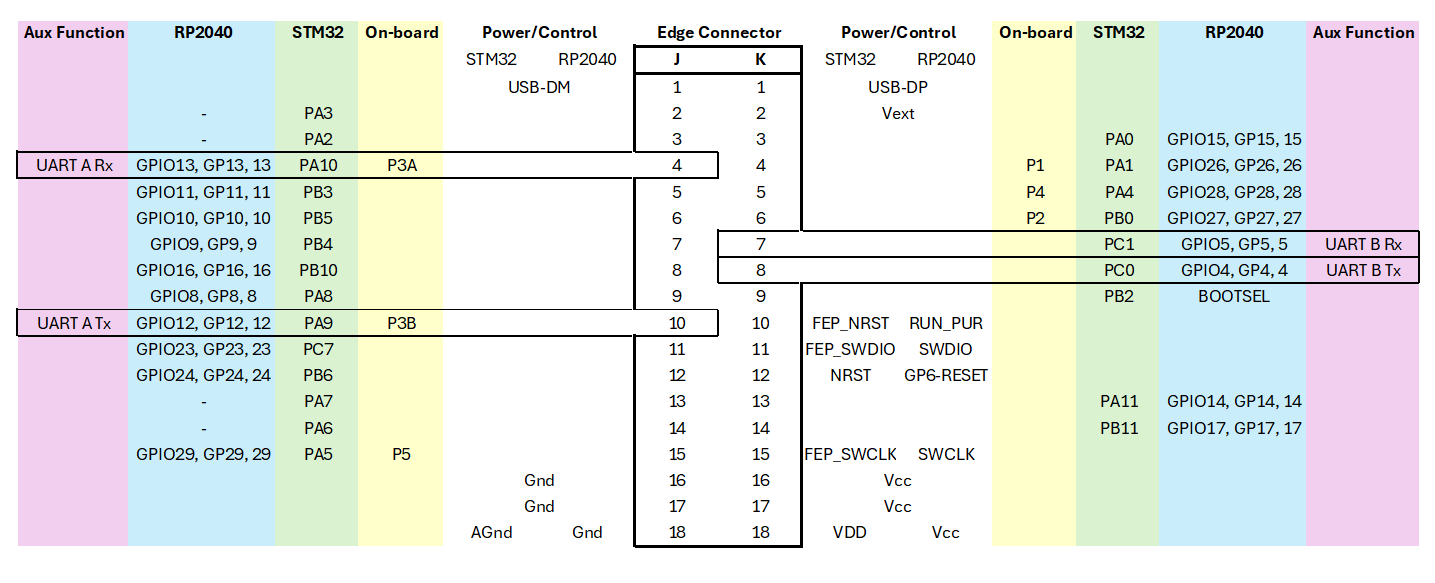
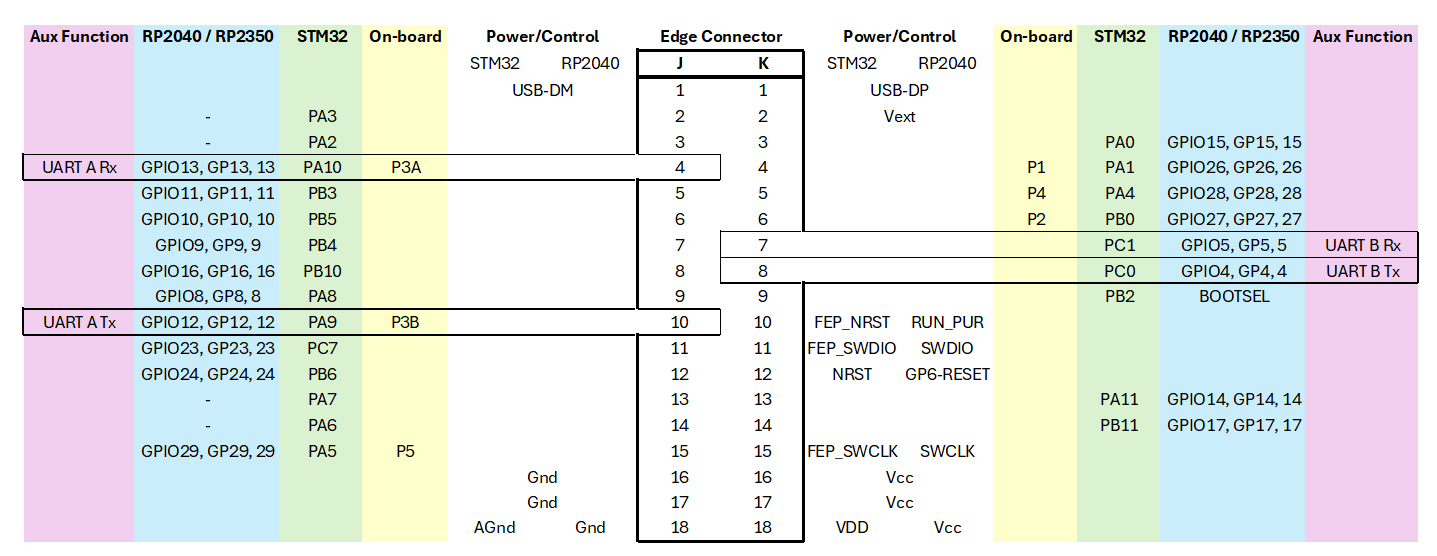
Updates for V1.11.0
Updated to cover the addition of firmware for the Raspberry Pi Pico2 RP2350.

Changed region(s): [[0.0, 0.0306, 1.0, 0.9784], [0.7666, 0.6727, 0.9199, 0.795]]

diff --git a/docs/source/pico.rst b/docs/source/pico.rst
@@ -4,6 +4,7 @@ Kookaberry Firmware on a Raspberry Pi Pico
 The standard `Raspberry Pi Pico <https://www.raspberrypi.com/documentation/microcontrollers/raspberry-pi-pico.html>`_ 
 microcomputer may be used with **Kookaberry** firmware V1.10.0 onwards
 to provide the software functionality that is available on a standard **Kookaberry** RP2040 microcomputer.
+**Kookaberry** firmware V1.11.0 onwards also supports the Pico2 RP2350 microcomputer.
 
 The **Pico**, however, does not have the physical OLED display, LEDs, buttons, JST-PH GPIO connectors, accelerometer / magnetometer, and digital packet radio
 that the **Kookaberry** is equipped with.  
@@ -23,18 +24,18 @@ Firmware Installation on the Pico
 To install the firmware on the **Pico**:
 
 1.	Download it from the GitHub repository: https://github.com/kookaberry/kooka-releases/releases
-2.	Unzip the downloaded file and go to the ``rp2040 folder`` to reveal two files: ``kooka_rp2040.bin`` and ``kooka_rp2040_mboot.uf2``.
+2.	Unzip the downloaded file and go to the ``rp2040 folder`` or the ``rp2350 folder``, as appropriate, to reveal two files: ``kooka_rp2040.bin`` and ``kooka_rp2040_mboot.uf2``.
 3.	Hold down the **BOOTSEL** button on the **Pico** while connecting it to the USB port on the PC that contains the downloaded file.
-4.  Load the bootloader (``kooka_rp2040_mboot.uf2``) onto the **Pico** by dragging/dropping the file onto the **Pico**'s USB drive.  
+4.  Load the bootloader (``kooka_rp2040_mboot.uf2`` or ``kooka_rp2350_mboot.uf2``) onto the **Pico** by dragging/dropping the file onto the **Pico**'s USB drive.  
 5.  The **Pico** should then mount as a USB drive named "**KOOKABERRY**."  If not, unplug the **Pico** and reconnect to the USB port.
-6.  Open the "**KOOKABERRY**" drive, drag/drop the ``kooka_rp2040.bin`` file to the root directory, and unplug then reconnect the **Pico**.
+6.  Open the "**KOOKABERRY**" drive, drag/drop the ``kooka_rp2040.bin`` / ``kooka_rp2350.bin`` file to the root directory, and unplug then reconnect the **Pico**.
 7.  The green LED on the **Pico** will flash during the loading process, and two folders ("``app``" and "``lib``") will appear in the 
 "**KOOKABERRY**" drive after loading is complete.
 
 Raspberry Pico GPIO Pin Limitations
 -----------------------------------
 
-The **Raspberry Pi Pico** board has reserved four of the RP2040 GPIO pins for internal functions, with 26 pins exposed on the **Pico** board out of 30 possibilities.
+The **Raspberry Pi Pico** board has reserved four of the RP2040 / RP2350 GPIO pins for internal functions, with 26 pins exposed on the **Pico** board out of 30 possibilities.
 
 Key internal pin assignments on **Raspberry Pi Pico** include:
 

diff --git a/docs/source/software.rst b/docs/source/software.rst
@@ -37,10 +37,10 @@ https://docs.micropython.org/en/latest/library/index.html#python-standard-librar
 The standard library encompasses the following.  Exceptions in support by the **Kookaberry** is noted against each item:
 
   - ``array`` - arrays of numeric data
-  - ``asyncio`` - asynchronous I/O scheduler (RP2040 only)
+  - ``asyncio`` - asynchronous I/O scheduler (RP2040 / RP2350 only)
   - ``binascii`` - binary/ASCII conversions
   - ``builtins`` - builtin functions and exceptions
-  - ``cmath`` - mathematical functions for complex numbers (RP2040 only)
+  - ``cmath`` - mathematical functions for complex numbers (RP2040 / RP2350 only)
   - ``collections`` - collection and container types
   - ``errno`` - system error codes
   - ``gc`` - control the garbage collector
@@ -114,7 +114,7 @@ Instructions for firmware updates are provided on the GutHub page.  In general, 
 
 1. Navigate into the Github firmware folder (https://github.com/kookaberry/kooka-releases/tree/master/firmware)
 2. Then navigate into, depending on your model of **Kookaberry**, either the ``stm32`` folder (Kookaberry rev1-05 and rev1-06), 
-   or the ``rp2040`` folder (Kookaberry v2 and later).
+   or the ``rp2040`` / ``rp2350`` folder (Kookaberry v2 and later).
 3. With the target **Kookaberry** connected via USB to your PC, download the various .bin files to the root folder of the **Kookaberry**'s file storage system.  
    The **Kookaberry**'s blue LED will flash during this process.  Wait until the blue LED is fully extinguished.  
 4. Dismount the **Kookaberry** from your PC and disconnect it.

diff --git a/docs/source/machine.Pin.rst b/docs/source/machine.Pin.rst
@@ -6,17 +6,17 @@ Kookaberry GPIO Pins
 ====================
 
 **Kookaberry** GPIO Pins are allocated and arranged as shown in the diagram below.
-As there are two variants of the **Kookaberry** (STM32 and RP2040 microcomputers), the native GPIO nomenclature varies.
+As there are two variants of the **Kookaberry** (STM32 and RP2040 / RP2350 microcomputers), the native GPIO nomenclature varies.
 
 A common nomenclature has been established using the names of the on-board connectors (``P1``, ``P2``, ``P3A``, ``P3B``, ``P4``, and ``P5``),
 and also the names of the edge-connector contacts (``J1``-``J18``, and ``K1``-``K18`` inclusive). 
 
 Referencing GPIO Pins with their **Kookaberry** common names will ensure scripts will work across both **Kookaberry** models.  
 
-Please note that not as many GPIO Pins are available on the RP2040 variant, and these Pins 
+Please note that not as many GPIO Pins are available on the RP2040 / RP2350 variants, and these Pins 
 (``J2``, ``J3``, ``J13``, ``J14``) should not be used if scripts are to be fully transportable between **Kookaberry** models.
 
-All GPIO Pins can also be referenced by their native microcomputer names as shown in the columns under STM32 and RP2040, 
+All GPIO Pins can also be referenced by their native microcomputer names as shown in the columns under STM32 and RP2040 / RP2350, 
 but scripts using these names will not run without errors on the other microcomputer.
 
 .. _edge_connector:

diff --git a/docs/source/kookaberry.rst b/docs/source/kookaberry.rst
@@ -102,14 +102,14 @@ On-board Facilities
 
 The **Kookaberry** has the following on-board facilities:
 
-1.	Microcomputer, either STM32F091 or a Raspberry Pi RP2040
+1.	Microcomputer, either STM32F091 or a Raspberry Pi RP2040 or RP2350
 2.	4 MBytes serial memory (USB accessible)
 3.	Monochrome OLED Display 128 x 64 pixels (Organic Light Emitting Diode)
-4.	22 (STM32F091) / 18 (RP2040) GPIO (General Purpose Input-Output) pins
-5.	Up to 8 ADC (Analogue to Digital Converters) on the ST32F091 and up to 4 ADCs on the RP2040
-6.	2 DAC (Digital to Analogue Converters) on STM32F091 and no DACs on the RP2040
+4.	22 (STM32F091) / 18 (RP2040 / RP2350) GPIO (General Purpose Input-Output) pins
+5.	Up to 8 ADC (Analogue to Digital Converters) on the ST32F091 and up to 4 ADCs on the RP2040 / RP2350
+6.	2 DAC (Digital to Analogue Converters) on STM32F091 and no DACs on the RP2040 / RP2350
 7.	Timers and Real Time Clock
 8.	Magnetic Compass and Accelerometer
-9.	2.4GHz Nordic NRF51 (with the STM32F091) or NRF52 (with the RP2040) Digital Packet Radio
+9.	2.4GHz Nordic NRF51 (with the STM32F091) or NRF52 (with the RP2040 / RP2350) Digital Packet Radio
 
 

diff --git a/docs/source/machine.DAC.rst b/docs/source/machine.DAC.rst
@@ -6,7 +6,7 @@ class DAC -- digital to analog conversion
 
 .. important::
 
-   The DAC Class is available only on the STM32-based **Kookaberry**, and not on the RP2040.
+   The DAC Class is available only on the STM32-based **Kookaberry**, and not on the RP2040 / RP2350.
 
 A digital-to-analog converter (DAC) is a data converter which generates an analogue output from a digital input. 
 A DAC converts a limited number of discrete digital codes to a corresponding number of discrete analog output values.
@@ -20,7 +20,7 @@ The voltage will be in the range 0V to 3.3V corresponding to digital value of
 - 0 to 4095 if the DAC has 12-bit resolution.
 
 On the STM32 **Kookaberry** only pins ``P4`` and ``P5`` have DAC capability.  
-No DAC capability is provided on the RP2040 **Kookaberry** because of microcomputer hardware limitations.
+No DAC capability is provided on the RP2040 / RP2350 **Kookaberry** because of microcomputer hardware limitations.
 
 
 Example usage::

diff --git a/docs/source/index.rst b/docs/source/index.rst
@@ -8,7 +8,7 @@ The Kookaberry Reference Guide
 
 This document provides a guide to the **Kookaberry** microcomputer, including its hardware, its software, its software tools, and their usage.
 
-This guide is for **Kookaberry** firmware v1.10.0.
+This guide is for **Kookaberry** firmware v1.11.0.
 
 .. toctree::
   :caption: Contents
@@ -45,5 +45,5 @@ Particular acknowledgement is given to:
 
    Kookaberry and Kooka are trademarks of Kookaberry Pty Ltd, Australia.
 
-   The Kookaberry Firmware release v1.10.0 and KookaSuite were created by Damien George (George Electronics Pty Ltd – MicroPython) 
+   The Kookaberry Firmware release v1.11.0 and KookaSuite were created by Damien George (George Electronics Pty Ltd – MicroPython) 
    in collaboration with Kookaberry Pty Ltd and the AustSTEM Foundation Ltd.

diff --git a/docs/source/glossary.rst b/docs/source/glossary.rst
@@ -67,8 +67,9 @@ and is intended to demystify the vocabulary often used in association with compu
       See also https://en.wikipedia.org/wiki/Science,_technology,_engineering,_and_mathematics
    
     Raspberry Pi Pico
-      A microcomputer developed by the **Raspberry Pi Foundation** based on their **RP2040** microprocessor chip.  
+      A microcomputer developed by the **Raspberry Pi Foundation** based on their **RP2040** and **RP2350** microprocessor chips.  
       The **RP2040** microprocessor chip is used in later hardware versions of the **Kookaberry**.
+      **Kookaberry** firmware from V11.0 onwards also supports the **RP2350** microprocessor.
       See also https://en.wikipedia.org/wiki/Raspberry_Pi
 
     STM

diff --git a/docs/source/machine.rst b/docs/source/machine.rst
@@ -10,7 +10,7 @@ This module provides access to the **Kookaberry** microcomputer facilities like 
 A/D and D/A Converters, serial interfaces, Real Time Clock, and timers.
 
 The focus in this guide is on the core **Kookaberry** functionality to ensure that scripts are portable between **Kookaberry** models.
-There are two variants of the **Kookaberry** using STM32 and RP2040 microcomputers.  
+There are two variants of the **Kookaberry** using STM32 and RP2040 / RP2350 microcomputers.  
 These each have features and functions particular to their microcomputers that are beyond those covered in this guide.
 
 The additional functionality can be examined by using these commands in the **KookaIDE** **REPL**::

diff --git a/docs/source/mpyfiles.rst b/docs/source/mpyfiles.rst
@@ -90,9 +90,9 @@ and .mpy version.
 =================== ============ ==========
 MicroPython release .mpy version Kookaberry
 =================== ============ ==========
-v1.23.0 and up      6.3
+v1.23.0 and up      6.3          RP2040 / RP2350
 v1.22.x             6.2
-v1.20 - v1.21.0     6.1          RP2040
+v1.20 - v1.24.0     6.1          
 v1.19.x             6
 v1.12 - v1.18       5            STM32
 v1.11               4

diff --git a/docs/source/machine.ADC.rst b/docs/source/machine.ADC.rst
@@ -39,7 +39,7 @@ ADC Methods
 
    .. note::
 
-      This method is not available on the RP2040 **Kookaberry**
+      This method is not available on the RP2040 or RP2350 **Kookaberry**
 
 .. method:: ADC.read_u16()
 
